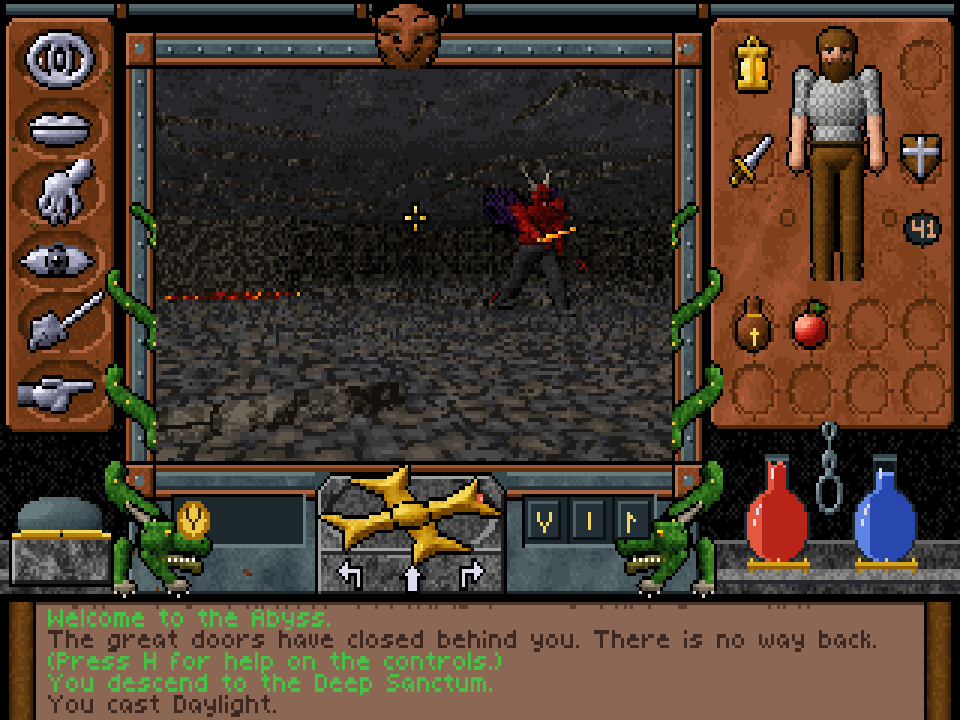
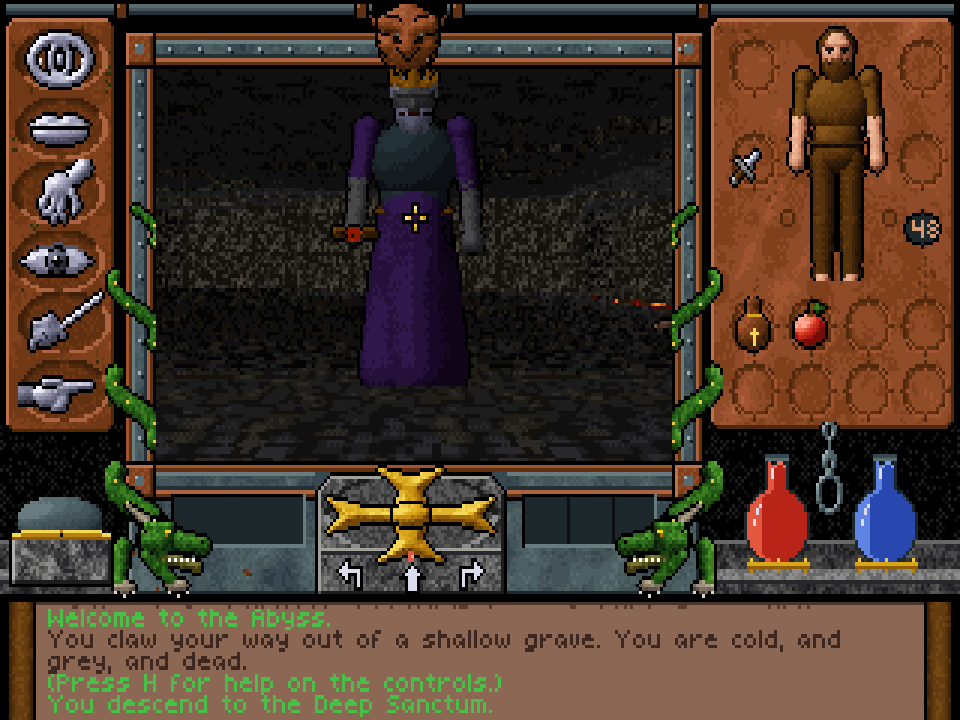
Draw the Lord of Souls as a crowned, ashen king
The Lord of Souls was still the red horned demon. He is now a gaunt king
with grey skin, white hair and beard, a gold crown (the new
Humanoid::crown), a dull breastplate under tattered purple robes, glowing
violet eyes and a flame-lit sword. The intro vignette and the README
screenshot show the new model.

diff --git a/src/art/creatures.rs b/src/art/creatures.rs
@@ -77,6 +77,7 @@ struct Humanoid {
     hair: Option<CMat>,
     beard: Option<CMat>,
     helmet: Option<CMat>,
+    crown: Option<CMat>,
     robe: Option<CMat>,
     weapon: Weapon,
     weapon_mat: CMat,
@@ -113,6 +114,7 @@ impl Humanoid {
             hair: None,
             beard: None,
             helmet: None,
+            crown: None,
             robe: None,
             weapon: Weapon::None,
             weapon_mat: m(Ramp::Silver, 4, 14, Pattern::Metal),
@@ -261,6 +263,18 @@ fn humanoid(s: &Humanoid, pose: &Pose) -> Vec<Part> {
         }
         if let Some(helm) = s.helmet {
             upper.push(ell(head_c + V3::new(0.0, hr * 0.3, -hr * 0.05), V3::new(hr * 1.05, hr * 0.8, hr * 1.02), helm));
+        }
+        if let Some(crown) = s.crown {
+            // A band with a ring of spikes, tallest at the front.
+            let top = head_c + V3::new(0.0, hr * 0.72, -hr * 0.05);
+            upper.push(ell(top, V3::new(hr * 0.92, hr * 0.16, hr * 0.92), crown));
+            for k in 0..8 {
+                let a = k as f32 * PI / 4.0;
+                let (sx, cz) = (a.sin(), a.cos());
+                let tall = 0.35 + 0.25 * cz.max(0.0);
+                let base = top + V3::new(sx * hr * 0.85, hr * 0.08, cz * hr * 0.85);
+                upper.push(cone(base, base + V3::new(sx * hr * 0.08, hr * tall, cz * hr * 0.08), 0.014 * h, 0.003 * h, crown));
+            }
         }
         if let Some(horn) = s.horns {
             for side in [-1.0f32, 1.0] {
@@ -871,21 +885,26 @@ fn spec_for(race: Race, look: u8) -> Option<Humanoid> {
             s
         }
         Race::Demon => {
-            let skin = m(Red, 1, 8, Scales);
+            // The Lord of Souls: a gaunt, ashen king in tattered robes.
+            let skin = m(Grey, 3, 10, Noise(0.3));
+            let robe = m(Purple, 1, 9, Cloth);
             let mut s = Humanoid::base(1.35, skin);
-            s.girth = 1.3;
-            s.horns = Some(m(Stone, 3, 12, Plain));
-            s.wings = Some(m(Purple, 1, 6, Noise(0.25)));
-            s.tail = Some(skin);
-            s.torso = skin;
-            s.legs = m(Grey, 0, 4, Fur);
-            s.feet = m(Grey, 1, 5, Plain);
-            s.eyes = m(Fire, 10, 15, Plain).glow();
+            s.girth = 0.92;
+            s.head = 1.0;
+            s.robe = Some(robe);
+            s.sleeves = Some(robe);
+            s.torso = m(Slate, 2, 9, Metal);
+            s.belt = Some(m(Gold, 2, 8, Metal));
+            s.feet = m(Grey, 0, 4, Plain);
+            s.hair = Some(m(Silver, 7, 15, Fur));
+            s.beard = Some(m(Silver, 7, 15, Fur));
+            s.crown = Some(m(Gold, 5, 14, Metal));
+            s.eyes = m(Purple, 11, 15, Plain).glow();
+            s.nose = 1.1;
             s.weapon = Weapon::Sword;
-            s.weapon_mat = m(Fire, 6, 13, Metal);
-            s.hunch = 0.2;
-            s.muscular = 1.0;
-            s.fangs = true;
+            s.weapon_mat = m(Fire, 8, 15, Metal).glow();
+            s.hunch = 0.15;
+            s.arm_len = 1.05;
             s
         }
         _ => return None,

diff --git a/src/ui/menus.rs b/src/ui/menus.rs
@@ -268,15 +268,8 @@ fn scene(page: usize) -> Bitmap {
                 b.set(x as i32 - 1, 19, BLACK);
                 b.set(x as i32 + 1, 19, BLACK);
             }
-            let mut lord = render(&creatures::model(Race::Demon, 0, &Pose::default()), &View3 { yaw: 0.0, pitch: 0.05, scale: 70.0, w: 80, h: 100, center: V3::ZERO, center_row: 98.0 }, true);
-            // A faded, ghostly grey.
-            for p in lord.px.iter_mut() {
-                if *p != 0 {
-                    let s = crate::gfx::palette::ramp_of(*p).map(|(_, s)| s).unwrap_or(4);
-                    *p = c(Ramp::Grey, (s as f32 * 0.8) as i32 + 2);
-                }
-            }
-            b.blit(&lord, 70, 8);
+            let lord = render(&creatures::model(Race::Demon, 0, &Pose::default()), &View3 { yaw: 0.0, pitch: 0.05, scale: 62.0, w: 80, h: 100, center: V3::ZERO, center_row: 98.0 }, true);
+            b.blit(&lord, 70, 6);
             for (x, y) in [(20, 104), (34, 108), (178, 106), (194, 103), (60, 110), (150, 110)] {
                 b.fill_circle_f(x as f32, y as f32, 4.0, c(Ramp::Parch, 8));
                 b.set(x - 1, y, BLACK);

diff --git a/HANDOFF.md b/HANDOFF.md
@@ -25,7 +25,8 @@ mostly balance.
 - Story (2026-10-16), inspired by Dark Souls: the player rises from a grave as
   one of the undead, learns who they were (Sir Aldric and the Lord of Souls
   tell them), and brings the three shards to Varian, the Lord of Souls
-  (`=== lord` in `assets/dialogue.txt`, a peaceful `Race::Demon`). Giving him
+  (`=== lord` in `assets/dialogue.txt`, a peaceful `Race::Demon` drawn as a
+  crowned, ashen king; `Humanoid::crown` in `src/art/creatures.rs`). Giving him
   the shards sets flag `ending` = 2 (alive, out through the doors); killing
   him sets `ending` = 1 (the new Lord of Souls). The victory overlay picks its
   text from that flag. Malchor broke the Stone and is a rival for the throne.
